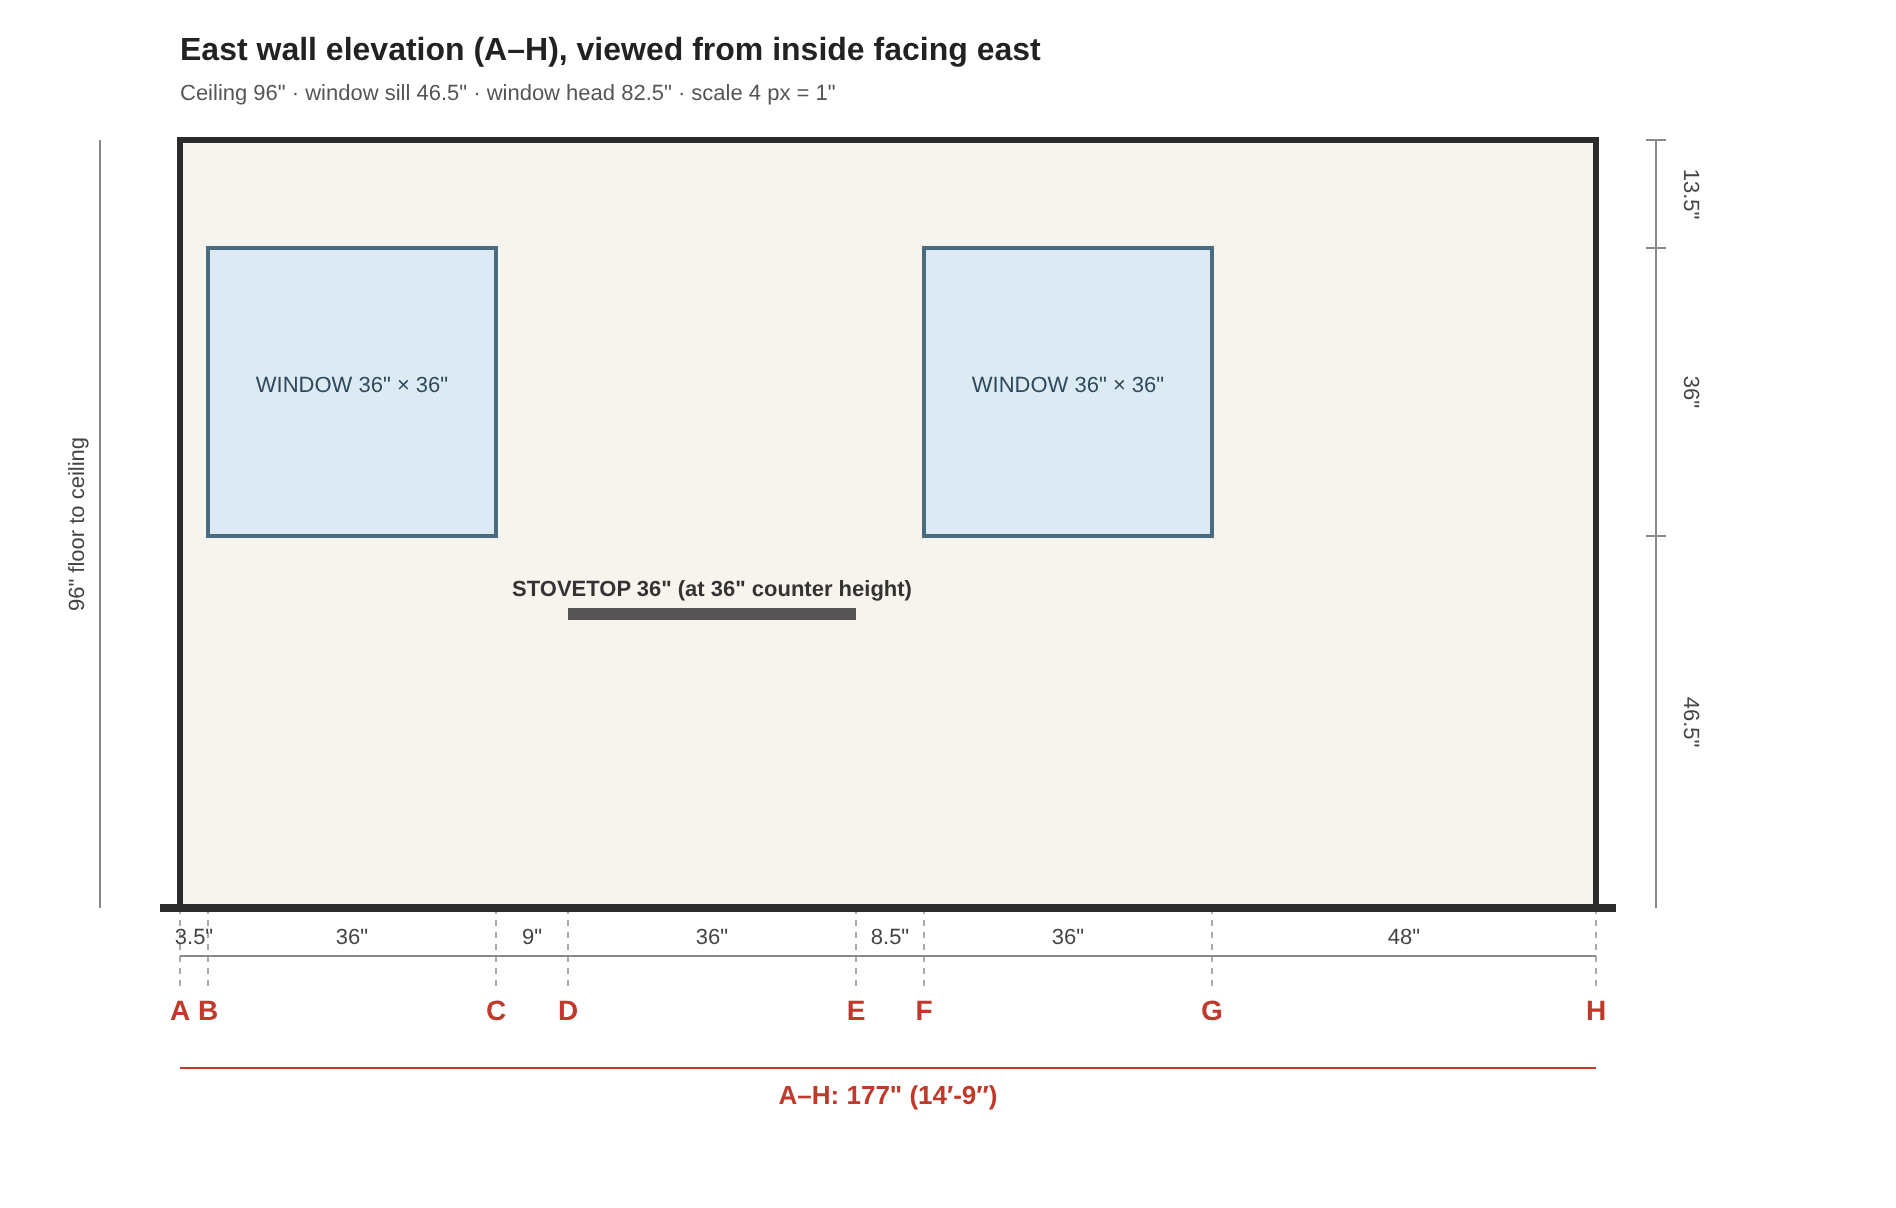
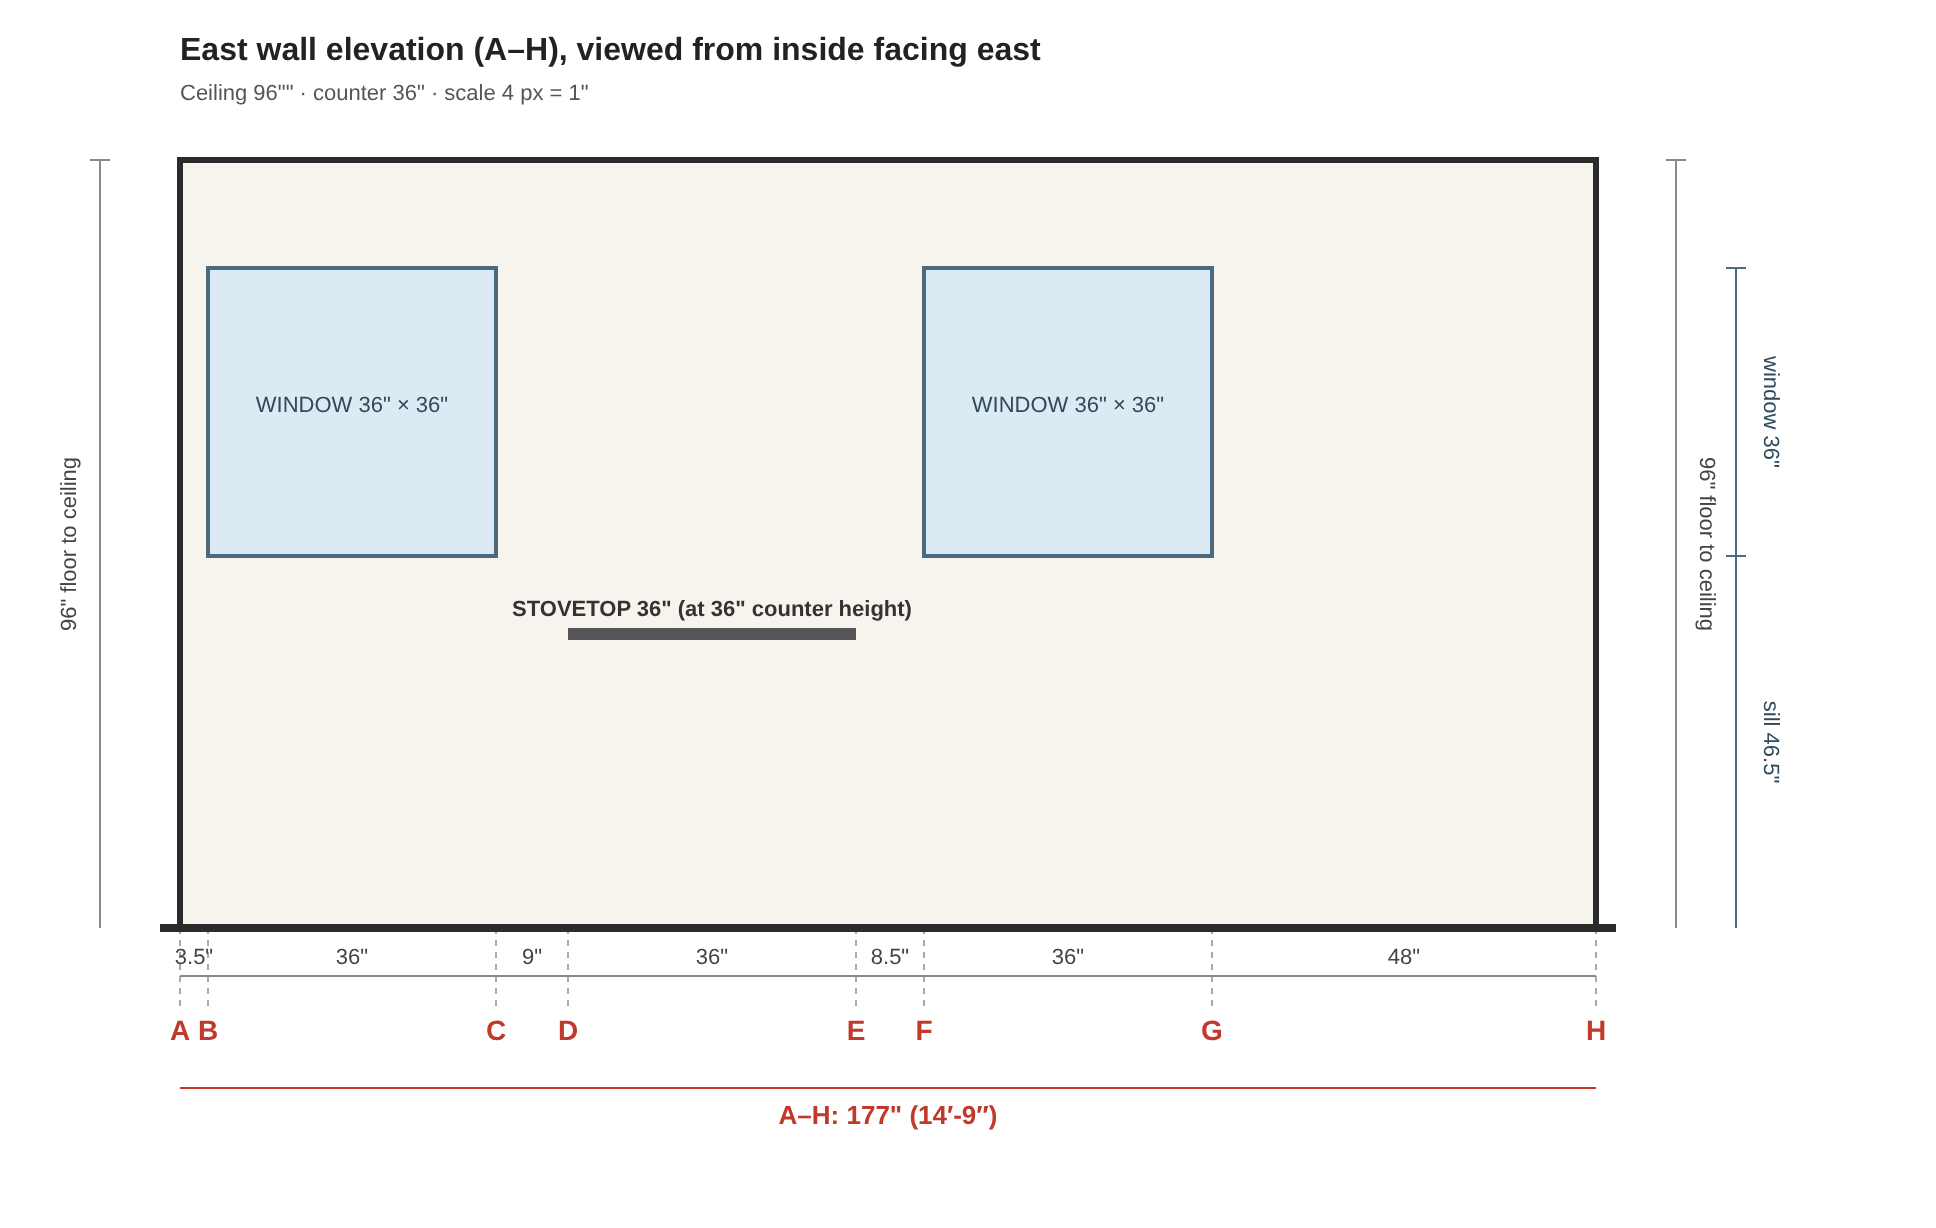
Floor plan: add south wall H-K with sink and centred window; south elevation with sloped ceiling
Claude-Session: https://claude.ai/code/session_01N1gJVqnW36KpNULQpj6QJQ

diff --git a/floorplans/build_floorplan.py b/floorplans/build_floorplan.py
@@ -17,12 +17,21 @@ SEGMENTS = [
     ("S", 8.5, "wall", "F"),
     ("S", 36, "window", "G"),
     ("S", 48, "wall", "H"),
+    # South wall, H to K (east to west); 32" window centred over the 36" sink I-J
+    ("W", 45, "wall", "I"),
+    ("W", 2, "wall", "_w1"),
+    ("W", 32, "window", "_w2"),
+    ("W", 2, "wall", "J"),
+    ("W", 42.5, "wall", "K"),
 ]
+
+# Dimensions for runs whose segments use hidden "_" points: (from, to, text)
+SPANS = [("I", "J", '36" sink · 32" window centred')]
 
 LABELS = {"opening": "walkway opening"}
 MARGIN = 80
 # Overall run dimensions drawn outside the segment dimensions: (from label, to label)
-TOTALS = [("A", "H")]
+TOTALS = [("A", "H"), ("H", "K")]
 
 # Countertops along walls: (points along the wall, depth in inches)
 # Points may be a label or an (x, y) position in inches.
@@ -44,6 +53,7 @@ NO_WINDOW = []
 # (kind, label, from, to, offset, width, depth). kind: range | hood | sink | under
 FIXTURES = [
     ("range", "STOVETOP", "D", "E", 0, 36, 22),
+    ("sink", "SINK", "H", "K", 45, 36, 22),
 ]
 
 DIM_OFFSET = 40  # px, dimension line offset to the left/top of the segment
@@ -249,6 +259,22 @@ def build():
         g.append('</g>')
         out.append("".join(g))
 
+    def seg_dim(x1, y1, x2, y2, vertical, text):
+        if vertical:
+            side = 1 if (x1 - ox) / SCALE >= (min(xs) + max(xs)) / 2 else -1  # keep dims outside the room
+            dx_ = x1 + side * (DIM_OFFSET + 30)
+            mid = (y1 + y2) / 2
+            out.append(f'  <g stroke="#888"><line x1="{dx_}" y1="{y1}" x2="{dx_}" y2="{y2}"/>'
+                       f'<line x1="{dx_-6}" y1="{y1}" x2="{dx_+6}" y2="{y1}"/><line x1="{dx_-6}" y1="{y2}" x2="{dx_+6}" y2="{y2}"/></g>')
+            out.append(f'  <text x="{dx_+16*side}" y="{mid}" font-size="12" fill="#444" text-anchor="middle" transform="rotate({90*side} {dx_+16*side} {mid})">{text}</text>')
+        else:
+            vside = 1 if (y1 - oy) / SCALE >= (min(ys) + max(ys)) / 2 else -1
+            dy_ = y1 + vside * DIM_OFFSET
+            mid = (x1 + x2) / 2
+            out.append(f'  <g stroke="#888"><line x1="{x1}" y1="{dy_}" x2="{x2}" y2="{dy_}"/>'
+                       f'<line x1="{x1}" y1="{dy_-6}" x2="{x1}" y2="{dy_+6}"/><line x1="{x2}" y1="{dy_-6}" x2="{x2}" y2="{dy_+6}"/></g>')
+            out.append(f'  <text x="{mid}" y="{dy_+(16 if vside > 0 else -8)}" font-size="12" fill="#444" text-anchor="middle">{text}</text>')
+
     for i, seg in enumerate(SEGMENTS):
         d, length, kind, label = seg[:4]
         kind, _, name = kind.partition(":")
@@ -276,21 +302,14 @@ def build():
             rw, rh = (8, abs(y2 - y1)) if vertical else (abs(x2 - x1), 8)
             out.append(f'  <g id="{seg_id}"><rect x="{rx}" y="{ry}" width="{rw}" height="{rh}" fill="#fff" stroke="#2b2b2b"/>'
                        f'<line x1="{x1}" y1="{y1}" x2="{x2}" y2="{y2}" stroke="#4a6b80" stroke-width="2"/></g>')
-        # dimension
-        if vertical:
-            side = 1 if (x1 - ox) / SCALE >= (min(xs) + max(xs)) / 2 else -1  # keep dims outside the room
-            dx_ = x1 + side * (DIM_OFFSET + 30)
-            mid = (y1 + y2) / 2
-            out.append(f'  <g stroke="#888"><line x1="{dx_}" y1="{y1}" x2="{dx_}" y2="{y2}"/>'
-                       f'<line x1="{dx_-6}" y1="{y1}" x2="{dx_+6}" y2="{y1}"/><line x1="{dx_-6}" y1="{y2}" x2="{dx_+6}" y2="{y2}"/></g>')
-            out.append(f'  <text x="{dx_+16*side}" y="{mid}" font-size="12" fill="#444" text-anchor="middle" transform="rotate({90*side} {dx_+16*side} {mid})">{length}" {name}</text>')
-        else:
-            vside = 1 if (y1 - oy) / SCALE >= (min(ys) + max(ys)) / 2 else -1
-            dy_ = y1 + vside * DIM_OFFSET
-            mid = (x1 + x2) / 2
-            out.append(f'  <g stroke="#888"><line x1="{x1}" y1="{dy_}" x2="{x2}" y2="{dy_}"/>'
-                       f'<line x1="{x1}" y1="{dy_-6}" x2="{x1}" y2="{dy_+6}"/><line x1="{x2}" y1="{dy_-6}" x2="{x2}" y2="{dy_+6}"/></g>')
-            out.append(f'  <text x="{mid}" y="{dy_+(16 if vside > 0 else -8)}" font-size="12" fill="#444" text-anchor="middle">{length}" {name}</text>')
+        # dimension (segments touching a hidden "_" point are dimensioned by SPANS instead)
+        if not (a[0].startswith("_") or b[0].startswith("_")):
+            seg_dim(x1, y1, x2, y2, vertical, f'{length}" {name}')
+
+    for a_lbl, b_lbl, text in SPANS:
+        a, b = by_label[a_lbl], by_label[b_lbl]
+        (x1, y1), (x2, y2) = P(a[1], a[2]), P(b[1], b[2])
+        seg_dim(x1, y1, x2, y2, x1 == x2, text)
 
     for a_lbl, b_lbl in TOTALS:
         a, b = by_label[a_lbl], by_label[b_lbl]
@@ -316,6 +335,8 @@ def build():
 
     out.append('  <g font-size="14" font-weight="700" fill="#c0392b">')
     for label, px, py in pts:
+        if label.startswith("_"):  # construction point, not shown
+            continue
         cx, cy = P(px, py)
         out.append(f'    <circle cx="{cx}" cy="{cy}" r="5"/><text x="{cx + 10}" y="{cy - 10}">{label}</text>')
     out.append("  </g>")
@@ -325,13 +346,19 @@ def build():
 
 
 # Wall elevations (viewed from inside the room). Heights in inches from the floor.
-CEILING = 96
-WINDOW_SILL, WINDOW_HEIGHT = 46.5, 36
+WINDOW_SILL, WINDOW_HEIGHT = 46.5, 36  # default for every window
+WINDOW_SIZES = {}  # per window, keyed by the window segment's end label: (sill, height)
 COUNTER_HEIGHT = 36
-ELEVATIONS = [("east_elevation.svg", "East wall elevation (A–H), viewed from inside facing east", ["A", "B", "C", "D", "E", "F", "G", "H"])]
+# (file, title, points along the wall in viewing order, ceiling height at first point, at last point)
+ELEVATIONS = [
+    ("east_elevation.svg", "East wall elevation (A–H), viewed from inside facing east",
+     ["A", "B", "C", "D", "E", "F", "G", "H"], 96, 96),
+    ("south_elevation.svg", "South wall elevation (H–K), viewed from inside facing south",
+     ["H", "I", "_w1", "_w2", "J", "K"], 96, 100),
+]
 
 
-def build_elevation(filename, title, labels):
+def build_elevation(filename, title, labels, ceil0, ceil1):
     pts = {START[0]: (START[1], START[2])}
     kinds = {}
     for seg in SEGMENTS:
@@ -340,53 +367,68 @@ def build_elevation(filename, title, labels):
         dx, dy = DIRS[d]
         pts[label] = (a[0] + dx * length, a[1] + dy * length)
         kinds[label] = kind
-    # distance along the wall from the first label
     along = [0.0]
     for p, q in zip(labels, labels[1:]):
         along.append(along[-1] + abs(pts[q][0] - pts[p][0]) + abs(pts[q][1] - pts[p][1]))
+    pos = dict(zip(labels, along))
     total = along[-1]
-    m, top = 90, 70
-    w = int(total * SCALE + 2 * m + 60)
-    h = int(CEILING * SCALE + top + 150)
+    hmax = max(ceil0, ceil1)
+    ceil = lambda t: ceil0 + (ceil1 - ceil0) * t / total
+    m, top = 90, 80
+    w = int(total * SCALE + 2 * m + 80)
+    h = int(hmax * SCALE + top + 150)
     X = lambda t: m + t * SCALE
-    Y = lambda z: top + (CEILING - z) * SCALE
+    Y = lambda z: top + (hmax - z) * SCALE
     o = ['<?xml version="1.0" encoding="UTF-8"?>',
          f'<svg xmlns="http://www.w3.org/2000/svg" viewBox="0 0 {w} {h}" width="{w}" height="{h}" font-family="Helvetica, Arial, sans-serif">',
          f'  <rect width="{w}" height="{h}" fill="#fff"/>',
          f'  <text x="{m}" y="30" font-size="16" font-weight="700" fill="#222">{title}</text>',
-         f'  <rect x="{X(0)}" y="{Y(CEILING)}" width="{total * SCALE}" height="{CEILING * SCALE}" fill="#f7f4ee" stroke="#2b2b2b" stroke-width="3"/>']
+         f'  <text x="{m}" y="50" font-size="11" fill="#555">Ceiling {ceil0:g}"{"" if ceil0 == ceil1 else f" rising to {ceil1:g}"}" · counter {COUNTER_HEIGHT}" · scale 4 px = 1"</text>',
+         f'  <path d="M {X(0)} {Y(0)} L {X(0)} {Y(ceil0)} L {X(total)} {Y(ceil1)} L {X(total)} {Y(0)} Z" fill="#f7f4ee" stroke="#2b2b2b" stroke-width="3"/>']
+    sills = set()
     for i, (p, q) in enumerate(zip(labels, labels[1:])):
-        kind, _, name = kinds[q].partition(":")
+        kind = kinds[q].partition(":")[0]
+        if kind != "window":
+            continue
+        sill, wh = WINDOW_SIZES.get(q, (WINDOW_SILL, WINDOW_HEIGHT))
+        sills.add((sill, wh))
         t0, t1 = along[i], along[i + 1]
-        if kind == "window":
-            o.append(f'  <rect x="{X(t0)}" y="{Y(WINDOW_SILL + WINDOW_HEIGHT)}" width="{(t1 - t0) * SCALE}" height="{WINDOW_HEIGHT * SCALE}" fill="#dceaf3" stroke="#4a6b80" stroke-width="2"/>')
-            cx = X((t0 + t1) / 2)
-            o.append(f'  <text x="{cx}" y="{Y(WINDOW_SILL + WINDOW_HEIGHT / 2)}" font-size="11" fill="#2e4a5c" text-anchor="middle">WINDOW {t1 - t0:g}" × {WINDOW_HEIGHT:g}"</text>')
-        if "stovetop" in name:
+        o.append(f'  <rect x="{X(t0)}" y="{Y(sill + wh)}" width="{(t1 - t0) * SCALE}" height="{wh * SCALE}" fill="#dceaf3" stroke="#4a6b80" stroke-width="2"/>')
+        o.append(f'  <text x="{X((t0 + t1) / 2)}" y="{Y(sill + wh / 2)}" font-size="11" fill="#2e4a5c" text-anchor="middle">WINDOW {t1 - t0:g}" × {wh:g}"</text>')
+    for kind, name, a_lbl, b_lbl, off, fw, dep in FIXTURES:
+        if a_lbl not in pos or b_lbl not in pos or kind not in ("range", "sink"):
+            continue
+        sgn = 1 if pos[b_lbl] > pos[a_lbl] else -1
+        t0, t1 = sorted((pos[a_lbl] + sgn * off, pos[a_lbl] + sgn * (off + fw)))
+        title_ = name.split("|")[0]
+        if kind == "range":
             o.append(f'  <rect x="{X(t0)}" y="{Y(COUNTER_HEIGHT) - 6}" width="{(t1 - t0) * SCALE}" height="6" fill="#555"/>')
-            o.append(f'  <text x="{X((t0 + t1) / 2)}" y="{Y(COUNTER_HEIGHT) - 12}" font-size="11" font-weight="700" fill="#333" text-anchor="middle">STOVETOP {t1 - t0:g}" (at {COUNTER_HEIGHT}" counter height)</text>')
-    # point markers and segment dimensions along the floor
-    for t, lbl in zip(along, labels):
+        else:  # sink bowl below the counter line
+            o.append(f'  <path d="M {X(t0)} {Y(COUNTER_HEIGHT)} L {X(t0) + 6} {Y(COUNTER_HEIGHT - 9)} L {X(t1) - 6} {Y(COUNTER_HEIGHT - 9)} L {X(t1)} {Y(COUNTER_HEIGHT)}" fill="#fff" stroke="#555" stroke-width="2"/>')
+        o.append(f'  <text x="{X((t0 + t1) / 2)}" y="{Y(COUNTER_HEIGHT) - 12}" font-size="11" font-weight="700" fill="#333" text-anchor="middle">{title_} {fw:g}" (at {COUNTER_HEIGHT}" counter height)</text>')
+    vis = [(t, l) for t, l in zip(along, labels) if not l.startswith("_")]
+    for t, lbl in vis:
         o.append(f'  <line x1="{X(t)}" y1="{Y(0)}" x2="{X(t)}" y2="{Y(0) + 40}" stroke="#aaa" stroke-dasharray="3 3"/>')
         o.append(f'  <text x="{X(t)}" y="{Y(0) + 56}" font-size="14" font-weight="700" fill="#c0392b" text-anchor="middle">{lbl}</text>')
-    for i in range(len(labels) - 1):
-        t0, t1 = along[i], along[i + 1]
+    for (t0, _), (t1, _) in zip(vis, vis[1:]):
         o.append(f'  <line x1="{X(t0)}" y1="{Y(0) + 24}" x2="{X(t1)}" y2="{Y(0) + 24}" stroke="#888"/>')
         o.append(f'  <text x="{X((t0 + t1) / 2)}" y="{Y(0) + 18}" font-size="11" fill="#444" text-anchor="middle">{t1 - t0:g}"</text>')
     o.append(f'  <line x1="{X(0)}" y1="{Y(0) + 80}" x2="{X(total)}" y2="{Y(0) + 80}" stroke="#c0392b"/>')
     o.append(f'  <text x="{X(total / 2)}" y="{Y(0) + 98}" font-size="13" font-weight="700" fill="#c0392b" text-anchor="middle">{labels[0]}–{labels[-1]}: {total:g}" ({int(total // 12)}′-{total % 12:g}″)</text>')
-    # height dimensions on the left
-    vx = X(0) - 40
-    for z0, z1, txt in [(0, CEILING, f'{CEILING}" floor to ceiling')]:
-        o.append(f'  <line x1="{vx}" y1="{Y(z0)}" x2="{vx}" y2="{Y(z1)}" stroke="#888"/>')
-        o.append(f'  <text x="{vx - 8}" y="{(Y(z0) + Y(z1)) / 2}" font-size="11" fill="#444" text-anchor="middle" transform="rotate(-90 {vx - 8} {(Y(z0) + Y(z1)) / 2})">{txt}</text>')
-    # window heights on the right
-    rx = X(total) + 30
-    for z0, z1 in [(0, WINDOW_SILL), (WINDOW_SILL, WINDOW_SILL + WINDOW_HEIGHT), (WINDOW_SILL + WINDOW_HEIGHT, CEILING)]:
-        o.append(f'  <line x1="{rx}" y1="{Y(z0)}" x2="{rx}" y2="{Y(z1)}" stroke="#888"/>'
-                 f'<line x1="{rx - 5}" y1="{Y(z1)}" x2="{rx + 5}" y2="{Y(z1)}" stroke="#888"/>')
-        o.append(f'  <text x="{rx + 14}" y="{(Y(z0) + Y(z1)) / 2}" font-size="11" fill="#444" text-anchor="middle" transform="rotate(90 {rx + 14} {(Y(z0) + Y(z1)) / 2})">{z1 - z0:g}"</text>')
-    o.append(f'  <text x="{m}" y="50" font-size="11" fill="#555">Ceiling {CEILING}" · window sill {WINDOW_SILL:g}" · window head {WINDOW_SILL + WINDOW_HEIGHT:g}" · scale 4 px = 1"</text>')
+    # ceiling heights at each end
+    for t, c, side in ((0, ceil0, -1), (total, ceil1, 1)):
+        vx = X(t) + side * 40
+        o.append(f'  <line x1="{vx}" y1="{Y(0)}" x2="{vx}" y2="{Y(c)}" stroke="#888"/>'
+                 f'<line x1="{vx - 5}" y1="{Y(c)}" x2="{vx + 5}" y2="{Y(c)}" stroke="#888"/>')
+        tx = vx + side * 12
+        o.append(f'  <text x="{tx}" y="{(Y(0) + Y(c)) / 2}" font-size="11" fill="#444" text-anchor="middle" transform="rotate({90 * side} {tx} {(Y(0) + Y(c)) / 2})">{c:g}" floor to ceiling</text>')
+    # window sill / head heights, just inside the first window
+    for sill, wh in sorted(sills):
+        rx = X(total) + 70
+        for z0, z1 in [(0, sill), (sill, sill + wh)]:
+            o.append(f'  <line x1="{rx}" y1="{Y(z0)}" x2="{rx}" y2="{Y(z1)}" stroke="#4a6b80"/>'
+                     f'<line x1="{rx - 5}" y1="{Y(z1)}" x2="{rx + 5}" y2="{Y(z1)}" stroke="#4a6b80"/>')
+            o.append(f'  <text x="{rx + 14}" y="{(Y(z0) + Y(z1)) / 2}" font-size="11" fill="#2e4a5c" text-anchor="middle" transform="rotate(90 {rx + 14} {(Y(z0) + Y(z1)) / 2})">{"sill " if z0 == 0 else "window "}{z1 - z0:g}"</text>')
     o.append(f'  <line x1="{X(0) - 10}" y1="{Y(0)}" x2="{X(total) + 10}" y2="{Y(0)}" stroke="#2b2b2b" stroke-width="4"/>')
     o.append("</svg>")
     Path(__file__).with_name(filename).write_text("\n".join(o) + "\n")
@@ -395,5 +437,5 @@ def build_elevation(filename, title, labels):
 
 if __name__ == "__main__":
     for spec in ELEVATIONS:
-        build_elevation(*spec)
+        print(spec[0], *build_elevation(*spec))
     print(*build())
